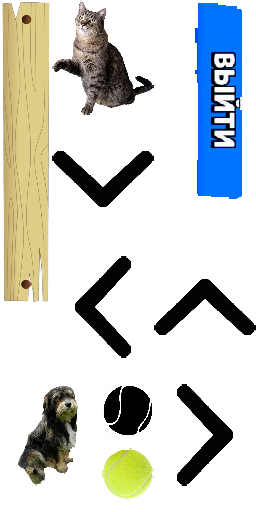
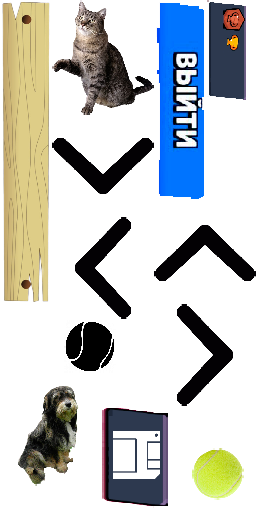
Добавил кубки

diff --git a/docs/stable/v1-1/scripts/objRefTable.js b/docs/stable/v1-1/scripts/objRefTable.js
@@ -36,17 +36,18 @@ self.C3_GetObjectRefTable = function () {
 		C3.Plugins.Button.Cnds.OnClicked,
 		C3.Plugins.System.Cnds.OnLayoutStart,
 		C3.Plugins.System.Exps.layoutname,
+		C3.Plugins.System.Acts.AddVar,
 		C3.Behaviors.Rotate.Acts.SetEnabled,
+		C3.Plugins.System.Acts.SubVar,
 		C3.Behaviors.Flash.Acts.Flash,
-		C3.Plugins.LocalStorage.Acts.GetItem,
-		C3.Plugins.Text.Acts.SetText,
-		C3.Plugins.LocalStorage.Exps.ItemValue,
+		C3.Plugins.System.Cnds.OnLoadFinished,
+		C3.Plugins.System.Acts.LoadState,
 		C3.Plugins.Touch.Cnds.OnDoubleTapGestureObject,
 		C3.Plugins.Browser.Acts.Alert,
 		C3.Plugins.Browser.Acts.GoToURL,
-		C3.Plugins.System.Cnds.OnLoadFinished,
 		C3.Plugins.Browser.Acts.LockOrientation,
-		C3.Plugins.Browser.Acts.RequestFullScreen
+		C3.Plugins.Browser.Acts.RequestFullScreen,
+		C3.Plugins.Text.Acts.SetText
 	];
 };
 self.C3_JsPropNameTable = [
@@ -82,8 +83,10 @@ self.C3_JsPropNameTable = [
 	{выход: 0},
 	{Победа: 0},
 	{проигрыш: 0},
-	{победы: 0},
-	{Браузер: 0}
+	{Браузер: 0},
+	{сохранить: 0},
+	{кубкифон: 0},
+	{кубки: 0}
 ];
 
 self.InstanceType = {
@@ -111,6 +114,8 @@ self.InstanceType = {
 	выход: class extends self.ISpriteInstance {},
 	Победа: class extends self.ITextInstance {},
 	проигрыш: class extends self.ITextInstance {},
-	победы: class extends self.ITextInstance {},
-	Браузер: class extends self.IInstance {}
+	Браузер: class extends self.IInstance {},
+	сохранить: class extends self.ISpriteInstance {},
+	кубкифон: class extends self.ISpriteInstance {},
+	кубки: class extends self.ITextInstance {}
 }

diff --git a/docs/stable/v1-1/scripts/c3runtime.js b/docs/stable/v1-1/scripts/c3runtime.js
@@ -4867,16 +4867,17 @@ self.C3_ExpressionFuncs = [
 			return () => f0();
 		},
 		() => "победа",
+		() => 8,
 		() => "проигрыш",
 		() => 0.1,
 		() => Infinity,
-		() => "pbd",
-		p => {
-			const f0 = p._GetNode(0).GetBoundMethod();
-			return () => (and("Ты победил ", f0()) + " раз");
-		},
+		() => "bravokuzya",
 		() => "Запуск актуальной бета версии...",
-		() => "https://muzilka.github.io/bravokuzya/get-beta.html"
+		() => "https://muzilka.github.io/bravokuzya/get-beta.html",
+		p => {
+			const v0 = p._GetNode(0).GetVar();
+			return () => v0.GetValue();
+		}
 ];
 
 
